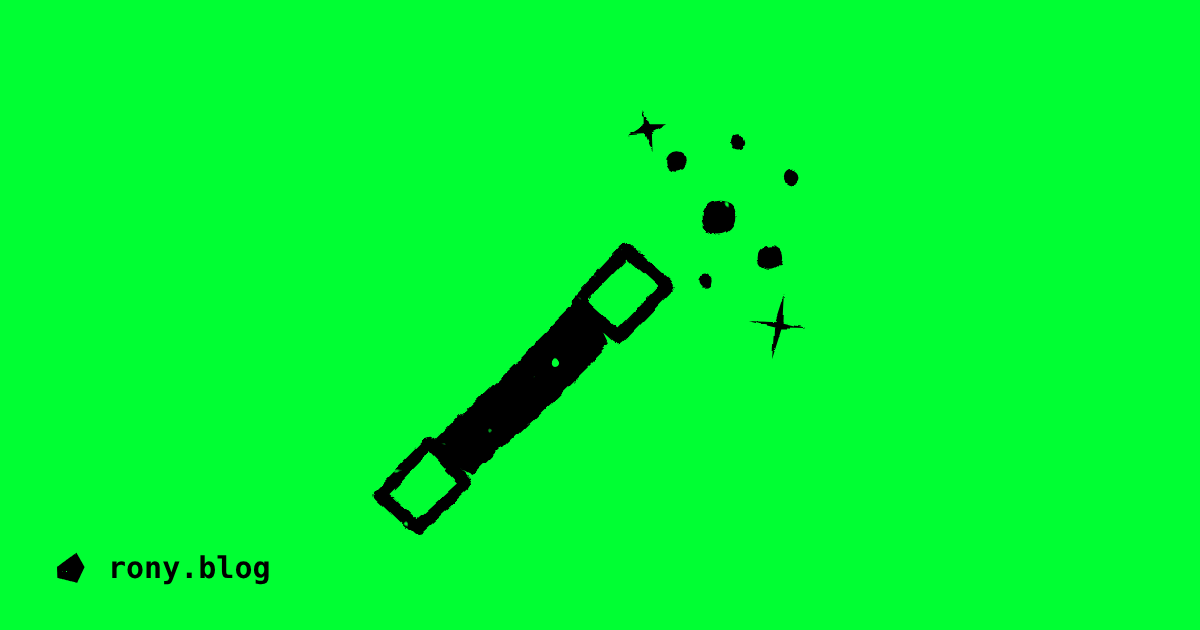
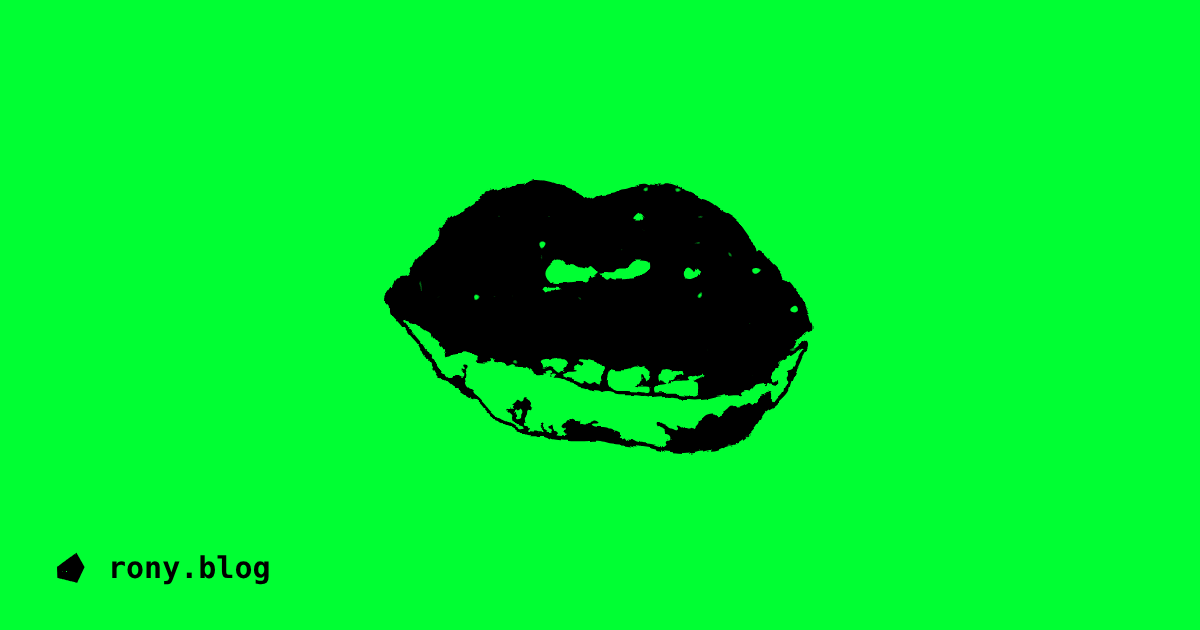
Give the talent essay the mouth with gold teeth
Traced from the painting: the black mouth and upper lip as solid ink, the
gold teeth as green shapes, the pale lower lip held by an outline, then
given the same printed edge as the other icons. Replaces the wand in the
feed, the social cuts and the share card; the wand stays in the library.

Claude-Session: https://claude.ai/code/session_01DvgCqh7jZkxuLgej98F7v5

diff --git a/index.html b/index.html
@@ -397,6 +397,7 @@ h2.year { font-size: 13px; font-weight: 700; letter-spacing: .3em; color: var(--
   <symbol id="i-oven-fish" viewBox="0 0 64 64"><g transform="translate(0 -1)"><path fill="currentColor" fill-rule="evenodd" d="M18.6 40.2 C22.6 33.4 32 32.4 38.2 36.6 L43.4 33.2 C44.2 35.6 43.8 37.6 42.6 40.2 C43.8 42.8 44.2 44.8 43.4 47.2 L38.2 43.8 C32 48 22.6 47 18.6 40.2 Z M22.4 39.4 a1.25 1.25 0 1 0 2.5 0 a1.25 1.25 0 1 0 -2.5 0 Z M27.4 35.2 C29.8 38.4 29.8 42 27.6 45.4 C28.8 42 28.8 38.4 27.4 35.2 Z M31.3 39.0 a0.7 0.7 0 1 0 1.4 0 a0.7 0.7 0 1 0 -1.4 0 Z M34.7 41.6 a0.7 0.7 0 1 0 1.4 0 a0.7 0.7 0 1 0 -1.4 0 Z M31.8 43.0 a0.65 0.65 0 1 0 1.3 0 a0.65 0.65 0 1 0 -1.3 0 Z M35.0 37.6 a0.65 0.65 0 1 0 1.3 0 a0.65 0.65 0 1 0 -1.3 0 Z M15.6 13.2 a1.9 1.9 0 1 0 3.8 0 a1.9 1.9 0 1 0 -3.8 0 Z M25.1 13.2 a1.9 1.9 0 1 0 3.8 0 a1.9 1.9 0 1 0 -3.8 0 Z M35.1 13.2 a1.9 1.9 0 1 0 3.8 0 a1.9 1.9 0 1 0 -3.8 0 Z M44.6 13.2 a1.9 1.9 0 1 0 3.8 0 a1.9 1.9 0 1 0 -3.8 0 Z"/><path fill="none" stroke="currentColor" stroke-width="2.3" stroke-linecap="round" stroke-linejoin="round" d="M12.3 8.5 H51.8 Q56.5 8.3 56.3 12.5 L55.8 54.3 Q56.1 58.6 51.6 58.2 H12.2 Q8.0 58.4 7.9 53.8 L7.9 12.8 Q8.2 8.0 12.4 8.2 Z M8.3 18.8 H55.6 M18.4 27.2 H45.6 Q50.3 27.4 50.1 31.7 V48.8 Q50.1 53.0 46.1 53.1 H18.7 Q14.2 53.1 13.9 48.6 V31.4 Q13.7 27.3 18.3 27.1 Z M17.1 22.8 H47.3 M13.6 58.8 V61.5 M50.6 58.9 V61.3"/></g></symbol>
   <symbol id="i-whittaker" viewBox="0 0 64 64"><path fill="currentColor" fill-rule="evenodd" d="M39.5 60.7 C39.6 60.4 39.6 60.1 39.6 59.7 C39.7 59.5 39.7 59.1 39.7 59.0 C39.8 58.8 39.8 58.4 39.9 58.1 C39.9 57.6 40.0 57.4 40.3 56.0 C40.3 55.7 40.4 55.4 40.4 55.3 C40.4 55.2 40.5 55.0 40.5 54.8 C40.6 54.5 40.6 54.2 40.7 54.0 C40.8 53.2 40.9 52.6 40.9 52.4 C41.0 52.3 41.1 52.1 41.1 51.9 C41.2 51.6 41.4 51.0 41.5 50.8 C41.8 50.5 41.7 51.5 41.4 52.3 C41.4 52.4 41.3 52.9 41.3 53.4 C41.2 53.6 41.2 53.9 41.1 54.0 C41.1 54.2 41.0 54.5 41.0 54.9 C40.8 56.3 40.8 56.1 40.5 57.0 C40.5 57.1 40.4 57.5 40.4 57.8 C40.3 58.0 40.3 58.4 40.2 58.6 C40.1 59.1 40.0 59.7 40.0 60.3 L40.0 60.8 L41.9 60.8 L43.8 60.8 L43.9 60.6 C43.9 60.5 43.9 60.3 44.0 60.1 C44.0 59.9 44.0 59.7 44.1 59.5 C44.1 59.4 44.2 59.1 44.2 58.9 C44.3 58.6 44.4 58.2 44.5 57.7 C44.5 57.3 44.6 56.6 44.7 56.2 C44.7 56.1 44.8 55.7 44.9 55.3 C44.9 54.9 45.0 54.5 45.1 54.2 C45.2 53.9 45.3 53.6 45.3 53.4 C45.3 53.2 45.4 52.8 45.5 52.4 C45.6 52.1 45.7 51.6 45.7 51.3 C45.8 50.6 46.0 50.0 46.3 49.7 C46.6 49.3 46.6 49.8 46.4 50.5 C46.4 50.8 46.3 51.1 46.2 51.4 C46.2 51.6 46.1 51.9 46.0 52.2 C46.0 52.4 45.8 53.0 45.7 53.5 C45.4 54.7 45.4 54.8 45.2 55.6 C45.1 55.9 45.0 56.4 44.9 56.6 C44.9 56.9 44.8 57.4 44.7 57.6 C44.5 58.5 44.5 58.8 44.4 59.2 C44.3 59.8 44.2 60.5 44.2 60.6 C44.0 60.8 43.7 60.8 49.0 60.8 L53.8 60.8 L53.9 60.6 C53.9 60.4 53.9 60.1 53.9 59.8 C53.9 59.6 53.9 59.1 53.9 58.7 C53.9 57.9 53.8 57.1 53.6 56.8 C53.3 56.3 53.2 56.2 53.4 55.7 C53.4 55.5 53.5 55.3 53.5 55.1 C53.5 54.7 53.6 54.3 53.8 53.9 C53.9 53.4 53.9 53.1 53.7 52.8 C53.5 52.6 53.5 52.5 53.7 52.2 C54.0 51.6 54.3 50.3 54.1 50.2 C54.0 50.0 53.9 50.0 53.5 50.2 C53.2 50.4 53.2 50.4 53.1 50.3 C53.1 50.2 52.9 50.3 52.9 50.4 C52.9 50.4 53.0 50.4 53.0 50.4 C53.1 50.5 53.1 50.6 52.9 50.8 C52.8 50.9 52.7 51.1 52.6 51.2 C52.4 51.6 52.4 51.6 52.1 51.5 C51.9 51.4 51.9 51.5 51.6 51.7 C51.1 52.1 50.9 51.8 51.2 51.2 C51.3 50.9 51.4 50.8 51.4 50.5 C51.5 50.1 51.7 49.7 52.2 49.5 C52.2 49.4 52.4 49.3 52.4 49.2 C52.5 49.0 52.6 48.9 52.7 48.8 C52.7 48.8 52.8 48.6 53.0 48.5 C53.2 48.1 53.3 48.1 53.6 48.1 C54.2 48.3 53.8 47.7 53.1 47.4 C53.0 47.3 52.7 47.2 52.5 47.1 C52.0 46.6 50.9 46.0 50.7 45.9 C50.6 45.8 50.2 45.7 49.8 45.5 C49.1 45.2 48.6 45.0 48.3 45.0 C47.9 45.0 47.6 44.7 47.3 44.2 C47.2 44.0 47.2 44.0 46.9 43.9 C46.8 43.9 46.7 43.9 46.6 43.8 C46.5 43.8 46.6 43.6 46.7 43.6 C47.0 43.8 47.1 43.7 47.2 43.5 C47.2 43.2 47.2 43.1 46.9 42.8 C46.7 42.6 46.7 42.6 46.7 42.2 C46.7 41.8 46.6 41.6 46.1 41.1 C46.0 41.0 45.9 40.9 45.8 40.7 C45.8 40.6 45.7 40.5 45.7 40.5 C45.5 40.3 45.5 40.0 45.7 39.6 C45.9 39.3 45.9 39.1 45.6 38.9 C45.5 38.9 45.3 38.7 45.2 38.6 C44.9 38.3 44.6 38.4 44.7 38.7 C44.8 38.9 44.7 38.9 44.6 38.9 C44.4 38.9 44.3 38.8 44.3 38.7 C44.3 38.7 44.2 38.6 44.2 38.6 C43.9 38.3 43.9 37.8 44.1 37.4 C44.3 37.0 44.3 36.9 44.0 36.6 C43.6 36.2 43.7 36.0 44.2 36.0 C44.5 35.9 44.6 35.9 44.4 35.7 C44.3 35.6 44.2 35.6 43.8 35.7 C43.4 35.8 43.0 35.6 43.4 35.4 C43.5 35.3 43.6 35.2 43.7 35.0 C43.7 34.9 43.2 34.5 42.8 34.4 C42.3 34.2 42.1 33.8 42.5 33.8 C42.8 33.7 42.9 33.7 42.9 33.5 C42.9 33.3 43.0 33.2 43.3 33.2 C43.7 33.2 43.8 33.4 43.6 33.7 C43.5 33.9 43.5 33.9 43.8 33.9 C43.9 33.9 44.1 33.9 44.2 34.0 C44.4 34.0 44.4 34.0 44.4 33.5 C44.4 33.1 44.5 33.0 44.9 32.8 C45.7 32.5 46.5 31.8 46.5 31.3 C46.5 31.0 46.1 30.5 45.4 29.8 C45.3 29.7 45.1 29.4 45.0 29.3 C44.9 29.2 44.8 28.9 44.6 28.7 C44.5 28.5 44.4 28.3 44.4 28.3 C44.4 28.3 44.2 28.1 44.0 28.0 C43.8 27.8 43.6 27.6 43.6 27.6 C43.4 27.2 44.2 26.8 44.6 27.1 C44.9 27.2 45.6 27.3 45.7 27.1 C45.8 27.0 45.6 26.8 45.3 26.7 C44.8 26.6 44.8 26.4 45.1 25.7 C45.2 25.3 45.2 25.3 45.4 25.3 C45.7 25.3 45.7 25.3 45.5 24.9 C45.4 24.7 45.4 24.6 45.4 24.5 C45.6 24.2 45.5 24.0 45.0 23.7 C44.8 23.6 44.8 23.6 44.7 23.2 C44.7 23.0 44.7 22.9 44.5 22.7 C44.3 22.6 44.3 22.6 44.4 22.4 C44.4 22.2 44.4 22.1 44.4 22.1 C44.4 22.1 44.3 22.1 44.1 22.1 C43.4 22.2 43.1 21.5 43.7 20.8 C43.9 20.6 43.9 20.4 43.6 20.1 L43.4 19.9 L43.4 19.4 C43.4 18.8 43.4 18.8 43.3 18.6 C43.1 18.3 43.1 18.3 43.1 18.0 C43.1 17.8 43.1 17.7 43.0 17.5 C42.8 17.2 42.8 17.2 42.9 17.0 C42.9 16.9 42.9 16.8 42.8 16.8 C42.6 16.6 42.5 16.6 42.4 16.1 C42.3 15.7 42.3 15.7 42.4 15.4 C42.5 14.9 42.5 14.8 42.0 14.7 C41.9 14.6 41.8 14.5 41.6 14.3 C41.5 14.1 41.3 13.9 41.2 13.7 C41.0 13.5 41.0 13.5 41.1 13.0 C41.2 12.8 41.3 12.6 41.3 12.6 C41.5 12.4 41.4 12.3 41.2 12.2 C41.0 12.2 40.9 12.1 40.8 11.9 C40.7 11.7 40.4 11.4 39.9 11.2 C39.1 10.8 39.0 10.9 39.0 11.7 C39.0 12.1 38.9 12.4 38.9 12.6 C38.8 12.8 38.8 12.9 38.8 13.0 C38.8 13.1 38.8 13.2 38.6 13.3 C38.4 13.4 38.3 13.6 38.4 13.8 C38.6 14.1 38.4 14.3 38.1 14.3 C37.9 14.3 37.9 14.2 38.0 13.9 C38.1 13.6 38.1 13.5 38.0 13.4 C37.7 13.2 37.4 13.5 37.2 14.1 C37.1 14.3 37.0 14.5 36.9 14.6 C36.8 14.9 36.9 15.2 37.2 15.1 C37.4 15.0 37.5 15.1 37.5 15.2 C37.4 15.3 37.4 15.3 37.2 15.3 C37.0 15.2 37.0 15.2 36.7 15.5 C36.3 15.9 36.2 15.9 36.3 15.4 C36.4 15.2 36.4 14.9 36.4 14.7 C36.4 14.5 36.5 14.2 36.5 14.1 C36.5 14.0 36.5 13.9 36.5 13.6 C36.4 13.0 36.4 12.5 36.5 12.6 C36.8 12.6 36.9 12.6 36.9 12.4 C37.1 12.0 37.1 12.0 37.2 12.2 C37.3 12.4 37.3 12.7 37.1 12.7 C36.9 12.8 36.9 13.0 37.1 13.2 C37.2 13.3 37.2 13.3 37.2 13.2 C37.3 13.0 37.4 12.9 37.6 13.0 C37.8 13.0 37.9 12.9 38.0 12.5 C38.1 12.3 38.1 12.2 38.2 12.0 C38.5 11.8 38.6 11.0 38.4 10.9 C38.3 10.9 38.0 11.1 38.0 11.2 C38.0 11.3 38.0 11.3 38.0 11.4 C38.0 11.5 37.8 11.4 37.6 11.3 C37.5 11.0 37.3 11.0 37.3 11.3 C37.3 11.4 37.3 11.5 37.2 11.5 C37.2 11.6 37.1 11.7 37.1 11.8 C37.1 11.9 37.1 11.8 37.0 11.7 C37.0 11.4 36.6 10.8 36.2 10.5 C35.4 10.0 35.0 9.8 34.4 9.9 C34.3 10.0 34.0 10.0 33.9 10.0 C33.8 10.0 33.6 10.1 33.4 10.1 C33.3 10.1 33.1 10.2 33.0 10.2 C32.9 10.2 32.7 10.2 32.5 10.4 C31.9 10.7 31.8 10.6 32.0 10.1 C32.0 9.9 31.6 9.5 31.4 9.6 C31.3 9.6 31.2 9.6 31.1 9.6 C30.8 9.6 30.8 9.7 30.9 10.1 C31.2 10.8 30.7 11.4 30.1 10.9 C29.8 10.7 29.4 10.6 29.1 10.8 C29.0 10.9 28.8 11.0 28.6 11.1 C28.0 11.5 27.6 12.6 27.9 13.3 C28.0 13.9 28.5 13.8 29.4 13.3 C29.6 13.2 29.6 13.2 29.9 13.2 C30.2 13.2 30.6 13.1 30.9 12.9 C31.0 12.9 31.1 12.8 31.2 12.8 C31.3 12.8 31.6 13.2 31.6 13.4 C31.6 13.5 31.6 13.6 31.8 13.7 C32.1 13.9 32.1 13.9 32.4 14.0 C32.5 14.1 32.6 14.2 32.8 14.4 C33.5 15.3 34.1 14.7 34.1 13.1 C34.1 12.2 34.0 11.9 33.5 11.6 C33.0 11.4 32.9 11.2 33.1 11.0 C33.3 10.8 33.4 10.8 33.6 11.1 C33.7 11.2 33.7 11.3 33.9 11.3 C34.4 11.5 35.1 12.4 35.2 13.2 C35.3 13.6 35.3 13.6 35.1 14.3 C34.9 15.4 34.8 15.6 34.6 15.9 C34.2 16.3 34.2 16.8 34.5 17.3 C34.6 17.5 34.7 17.7 34.7 17.8 C34.7 18.1 34.8 18.3 35.3 18.8 C36.0 19.3 36.1 19.5 36.1 19.8 C36.2 20.2 36.3 20.5 36.5 20.9 C36.6 21.1 36.7 21.4 36.8 21.5 C36.9 21.8 37.0 21.9 37.2 22.2 C37.9 22.9 38.3 25.3 37.9 26.5 C37.6 27.6 37.6 27.9 37.9 28.4 C38.2 28.7 38.2 28.7 38.4 28.7 C38.7 28.8 38.7 28.8 38.8 29.4 C38.8 29.8 38.8 29.9 38.7 30.0 C38.4 30.5 38.0 30.8 37.6 30.7 C37.2 30.6 37.1 30.6 37.0 31.3 C36.8 32.0 36.7 32.5 36.4 33.1 C36.3 33.4 36.1 33.7 36.1 33.7 C36.1 33.8 36.1 33.9 36.1 34.0 C35.9 34.3 36.0 34.4 36.1 34.4 C36.5 34.4 36.7 35.1 36.7 36.6 C36.8 37.7 36.5 39.0 36.1 39.7 C35.9 40.0 34.8 41.0 34.5 41.2 C34.3 41.3 34.0 41.6 33.6 41.9 C31.9 43.2 31.8 43.3 31.7 43.7 C31.5 44.1 31.3 44.5 31.0 44.9 C30.2 45.9 30.0 46.9 30.5 47.9 C30.7 48.2 30.6 48.4 30.3 48.4 C30.2 48.5 30.1 48.5 30.1 48.7 C29.9 49.0 29.6 49.0 29.4 48.7 C29.3 48.5 29.1 48.4 28.8 48.5 C28.4 48.7 28.3 48.7 28.0 48.6 C27.9 48.5 27.8 48.5 27.7 48.7 C27.5 48.8 27.4 48.8 27.2 48.8 C26.8 48.8 26.5 49.2 26.5 49.8 C26.6 50.1 26.5 50.3 26.3 50.4 C26.1 50.6 26.0 50.4 26.1 50.0 C26.1 49.8 26.1 49.6 26.1 49.4 C26.0 48.3 26.1 48.2 26.9 48.2 C27.4 48.2 27.7 48.1 27.9 47.9 C27.9 47.8 28.1 47.8 28.2 47.8 C28.8 47.7 28.7 47.5 28.0 47.5 C27.4 47.5 26.9 47.2 27.3 47.0 C27.6 46.8 27.7 46.7 27.7 45.6 C27.8 44.7 27.8 43.7 27.7 43.3 C27.5 42.4 27.7 41.9 28.2 42.4 C28.5 42.8 28.9 42.9 29.1 42.7 C29.3 42.6 29.2 42.5 28.8 42.1 C28.2 41.5 28.1 41.3 28.2 40.9 C28.2 40.8 28.2 40.8 28.3 40.8 C28.7 40.8 28.7 39.8 28.4 39.1 C27.8 38.1 27.8 37.8 28.5 36.6 C29.0 35.9 29.1 35.9 29.3 36.1 C29.4 36.3 29.5 36.3 29.8 36.1 C30.2 35.8 30.2 35.8 29.9 35.7 C29.8 35.6 29.6 35.6 29.5 35.5 C29.3 35.4 28.9 35.3 28.5 35.1 C28.2 35.1 28.1 35.0 28.0 34.9 C27.7 34.7 27.6 34.6 27.3 34.8 C27.1 34.8 27.0 34.8 26.8 34.7 C26.6 34.7 26.4 34.6 26.3 34.6 C26.1 34.6 25.7 34.3 25.7 34.2 C25.7 34.1 25.3 33.9 25.1 33.9 C24.7 33.8 24.0 33.3 24.0 33.1 C24.0 32.9 23.9 32.8 23.8 32.8 C23.4 32.8 22.6 31.2 22.7 30.5 C22.7 30.4 22.7 30.2 22.7 30.1 C22.5 29.7 22.6 29.1 22.8 28.7 C22.9 28.6 22.9 28.4 22.9 28.4 C22.9 28.3 23.0 28.2 23.0 28.0 C23.2 27.6 23.2 27.5 22.9 26.9 C22.7 26.6 22.6 26.4 22.6 26.3 C22.6 26.3 22.6 26.2 22.5 26.0 C22.4 25.9 22.4 25.7 22.4 25.5 C22.3 25.3 22.3 25.1 22.3 24.9 C22.2 24.5 22.3 23.7 22.5 23.3 C22.6 23.2 22.7 23.0 22.7 22.9 C22.7 22.8 22.8 22.6 22.9 22.5 C23.0 22.4 23.1 22.1 23.1 21.9 C23.3 21.5 23.5 21.1 23.7 21.1 C23.8 21.1 23.8 21.2 23.6 21.4 C23.5 21.7 23.4 22.6 23.6 22.7 C23.7 22.9 23.7 22.9 24.2 22.7 C24.5 22.6 24.7 22.6 24.9 22.6 C25.2 22.6 25.3 22.6 25.4 22.5 C25.5 22.4 25.5 22.4 25.7 22.4 C25.9 22.4 26.0 22.4 26.1 22.4 C26.2 22.3 26.4 22.2 26.6 22.2 C26.8 22.1 26.9 22.1 26.9 21.9 C27.1 21.6 27.4 21.7 27.4 22.0 C27.4 22.9 28.7 22.4 28.9 21.4 C29.0 20.8 28.7 20.3 28.5 20.7 C28.4 20.9 28.2 21.2 28.0 21.4 C27.9 21.5 27.5 21.4 27.1 21.2 C26.8 21.0 25.7 20.7 25.2 20.7 C25.1 20.7 24.8 20.7 24.7 20.7 C24.6 20.6 24.5 20.7 24.2 20.8 C23.9 20.9 23.8 20.9 23.9 20.6 C24.1 20.3 24.0 20.1 23.6 20.2 C23.3 20.2 22.6 19.9 22.6 19.6 C22.6 19.4 22.9 19.1 23.1 19.1 C23.1 19.1 23.3 19.0 23.5 18.9 C23.7 18.7 23.8 18.7 23.9 18.7 C24.0 18.7 24.2 18.7 24.3 18.6 C24.9 18.4 24.7 19.0 24.0 19.5 C23.5 19.9 23.8 20.1 24.6 19.8 C24.7 19.8 25.0 19.8 25.2 19.7 C25.4 19.7 25.7 19.7 25.7 19.7 C26.0 19.6 26.1 19.7 26.3 19.9 C26.7 20.2 26.9 20.2 27.5 20.0 C28.4 19.7 28.1 19.2 26.9 19.0 C26.4 18.9 26.4 18.8 26.7 18.5 C27.3 17.9 27.9 16.6 27.8 16.0 C27.8 15.8 27.4 14.8 27.3 14.6 C27.2 14.5 27.0 13.8 27.0 13.5 C27.0 13.4 27.0 13.2 27.0 13.0 C26.9 12.8 26.9 12.4 27.0 12.1 C27.1 12.0 27.1 11.7 27.1 11.5 C27.1 11.1 27.2 11.1 27.3 10.8 C27.5 10.5 27.6 10.4 27.6 10.1 C27.6 9.4 27.8 9.2 28.5 9.2 C28.6 9.2 29.1 9.1 29.1 9.0 C29.2 9.0 29.1 8.8 28.9 8.6 C28.9 8.6 28.8 8.6 28.7 8.6 C28.5 8.6 28.4 8.6 28.3 8.6 C28.1 8.5 27.9 8.5 27.7 8.6 C27.4 8.8 26.9 8.8 26.5 8.6 C26.3 8.5 25.8 8.6 25.5 8.8 C25.2 8.9 24.1 9.0 23.6 8.9 C23.4 8.9 23.3 8.9 23.2 9.0 C23.1 9.0 22.9 9.2 22.7 9.3 C22.3 9.4 22.3 9.5 22.1 9.8 C21.7 10.3 21.6 10.4 20.9 10.1 C20.4 9.9 20.2 10.0 20.5 10.5 C20.6 10.9 20.5 11.0 20.1 11.0 C20.0 11.0 19.9 11.0 19.8 11.2 C19.7 11.4 19.6 11.5 19.3 11.7 C18.9 11.9 18.2 12.5 17.8 12.9 C17.5 13.2 17.5 13.3 17.3 13.9 C17.3 14.2 17.3 14.3 17.4 14.0 C17.7 13.0 19.0 11.9 20.0 11.8 C20.4 11.8 20.4 12.0 19.9 12.3 C19.4 12.6 19.3 12.8 19.1 13.2 C19.1 13.3 18.9 13.5 18.9 13.7 C18.8 13.8 18.7 14.0 18.6 14.1 C18.6 14.2 18.5 14.4 18.3 14.5 L18.0 14.8 L18.1 15.5 C18.1 15.9 18.1 16.4 18.1 16.5 C18.1 16.7 18.1 16.9 18.1 17.1 C18.0 17.3 18.1 17.4 18.1 17.6 C18.3 18.0 18.1 18.3 17.8 18.5 C17.4 18.7 16.9 19.2 17.3 19.0 C17.9 18.8 18.7 19.2 18.7 19.8 C18.7 19.9 18.6 20.0 18.0 20.1 C17.8 20.2 17.8 20.2 18.1 20.5 C18.4 20.7 18.5 20.7 18.7 20.7 C19.1 20.6 19.1 20.8 18.8 21.2 C18.5 21.6 18.1 21.6 17.8 21.4 C17.7 21.3 17.6 21.2 17.5 21.2 C17.4 21.2 17.3 21.1 17.2 21.1 C17.1 21.0 17.0 21.0 16.9 21.1 C16.9 21.3 16.6 21.2 16.4 21.0 C15.8 20.2 15.9 19.1 16.6 19.6 C16.8 19.7 16.9 19.7 16.9 19.5 C16.9 19.4 16.8 19.3 16.8 19.3 C16.8 19.3 16.7 19.2 16.6 19.1 C16.2 18.6 15.5 19.4 15.5 20.3 C15.5 20.7 15.5 20.9 15.4 21.0 C15.4 21.1 15.4 21.3 15.4 21.4 C15.4 21.5 15.3 21.6 15.2 21.7 C14.9 21.9 15.0 22.1 15.5 22.5 C16.1 23.0 16.0 23.3 15.0 23.5 C14.1 23.6 14.1 23.6 14.0 23.9 C14.0 24.1 13.9 24.2 13.7 24.5 C13.1 25.2 12.9 26.3 13.3 27.2 C13.7 28.4 13.9 28.4 13.9 27.4 C13.8 26.6 13.8 26.6 14.0 26.5 C14.4 26.2 14.8 27.7 14.4 28.2 C14.3 28.3 14.3 28.3 14.3 28.5 C14.5 29.2 14.4 29.6 14.1 29.8 C13.6 30.1 13.3 30.6 13.5 30.9 C13.6 31.0 13.6 31.0 13.7 30.8 C13.9 30.3 14.7 30.2 14.8 30.6 C14.9 30.8 14.9 30.8 15.1 30.9 C15.2 30.9 15.4 31.0 15.5 31.1 C15.7 31.2 15.9 31.3 16.0 31.3 C16.4 31.3 16.5 31.4 16.5 31.9 C16.5 32.5 16.2 32.8 15.8 32.9 C15.5 32.9 14.9 33.3 14.9 33.4 C14.8 33.6 14.9 33.7 15.1 33.8 C15.7 34.0 15.8 34.0 15.9 33.8 C16.2 33.5 16.7 33.5 17.0 33.8 C17.3 34.0 17.2 34.2 16.9 34.4 C16.7 34.6 16.2 35.7 16.2 36.1 C16.2 36.6 16.4 36.9 16.8 37.0 C16.9 37.0 17.1 37.0 17.1 37.1 C17.4 37.3 17.7 37.3 18.1 37.0 C18.2 37.0 18.6 36.8 18.9 36.7 C19.2 36.6 19.5 36.5 19.7 36.4 C20.0 36.2 20.1 36.2 20.2 36.3 C20.3 36.5 20.2 36.8 19.8 37.0 C19.6 37.1 19.5 37.1 19.5 37.4 C19.5 37.7 19.3 37.9 19.0 38.1 C18.6 38.3 18.5 38.4 18.5 38.5 C18.5 38.6 18.5 38.7 18.4 38.8 C18.4 38.9 18.4 38.9 18.5 39.0 C18.9 39.3 18.5 39.7 17.8 39.8 C17.1 39.9 17.0 40.0 17.1 40.8 C17.2 41.1 17.6 41.2 18.0 41.0 C18.6 40.8 19.4 40.8 19.5 41.1 C19.6 41.2 19.5 41.3 19.2 41.3 C18.6 41.4 18.3 41.7 18.5 42.0 C18.8 42.3 18.8 42.5 18.5 42.9 C18.4 43.2 18.3 43.3 18.3 43.4 C18.4 43.5 18.5 44.0 18.6 44.3 C18.8 44.7 18.4 45.1 17.8 44.9 C17.5 44.9 17.4 44.9 17.6 45.1 C17.6 45.1 17.7 45.2 17.7 45.3 C17.8 45.4 17.8 45.6 17.3 46.0 C16.5 46.8 16.3 47.3 15.9 48.8 C15.8 49.2 15.7 49.8 15.6 50.1 C15.5 50.3 15.4 50.9 15.3 51.4 C15.2 51.9 15.2 52.4 15.1 52.5 C15.0 53.1 15.0 53.4 14.9 54.6 C14.9 55.6 14.9 55.9 14.8 56.3 C14.8 56.5 14.7 57.1 14.6 57.6 C14.6 58.0 14.5 58.7 14.4 59.1 C14.3 59.7 14.2 60.3 14.2 60.6 L14.2 60.8 L26.8 60.8 C39.5 60.8 39.5 60.8 39.5 60.7 Z M25.6 57.4 C25.5 57.3 25.6 57.2 25.9 56.9 C26.2 56.6 26.0 56.5 25.5 56.6 C25.1 56.8 24.9 56.6 24.9 56.2 C25.0 55.9 25.1 55.9 25.3 56.0 C26.0 56.3 26.6 56.1 27.0 55.5 C27.3 55.1 27.7 54.8 27.7 55.1 C27.8 55.2 27.4 55.7 27.2 55.9 C27.0 56.0 26.9 56.1 26.9 56.3 C26.6 57.1 25.9 57.6 25.6 57.4 Z M25.8 53.9 C25.7 53.9 25.5 53.5 25.5 53.4 C25.5 53.3 25.5 53.3 25.9 53.3 C26.2 53.3 26.4 53.2 26.4 53.0 C26.5 52.6 27.2 52.2 27.8 52.2 C28.0 52.2 28.2 52.2 28.3 52.2 C28.5 52.1 28.7 51.8 28.7 51.5 C28.7 51.3 28.9 51.1 29.0 51.3 C29.1 51.4 29.0 51.6 28.7 51.9 C28.5 52.1 28.4 52.3 28.3 52.4 C28.2 52.6 28.0 52.7 27.6 52.9 C27.3 53.1 27.3 53.1 27.1 53.3 C26.8 53.8 26.1 54.1 25.8 53.9 Z M36.9 49.1 C36.9 49.1 36.8 49.1 36.7 49.1 C36.6 49.1 36.5 49.0 36.3 48.9 C36.2 48.8 36.1 48.7 36.1 48.7 C36.0 48.7 35.7 48.6 35.7 48.4 C35.6 48.3 35.5 48.1 35.3 48.0 C35.1 47.8 35.1 47.7 35.1 47.6 C35.1 47.4 35.5 47.5 35.6 47.9 C35.6 48.2 36.1 48.2 36.3 47.9 C36.5 47.6 36.8 47.6 36.8 47.9 C36.8 47.9 36.8 48.0 36.7 48.1 C36.6 48.2 36.9 48.4 37.3 48.4 C37.8 48.4 37.8 49.1 37.2 49.1 C37.1 49.1 37.0 49.1 36.9 49.1 Z M49.1 48.0 C48.7 47.8 48.7 47.8 48.5 47.9 C48.4 47.9 48.2 47.9 47.8 47.9 C47.4 47.9 47.2 47.9 46.9 48.0 C46.4 48.1 46.2 48.1 45.9 47.7 C45.8 47.4 45.8 47.4 46.1 47.1 C46.3 46.7 46.7 46.5 47.0 46.5 C47.1 46.5 47.3 46.5 47.5 46.5 C47.9 46.4 48.1 46.5 48.6 46.8 C48.8 46.9 49.0 47.0 49.3 47.0 C50.1 47.2 50.3 47.6 49.8 48.0 C49.5 48.2 49.4 48.2 49.1 48.0 Z M37.5 47.9 C37.3 47.7 37.8 46.9 38.2 46.8 C38.3 46.8 38.3 46.8 38.3 46.4 C38.2 46.1 38.2 46.1 38.4 45.9 C38.6 45.8 38.6 45.7 38.5 45.4 C38.3 45.1 38.3 45.0 38.5 44.6 C38.6 44.3 38.7 44.3 38.9 44.4 C39.2 44.5 39.6 44.4 39.5 44.1 C39.5 43.9 39.4 43.8 39.1 43.8 C38.7 43.7 38.7 43.3 39.1 42.7 C39.4 42.3 39.5 42.3 39.7 42.6 C39.9 42.6 40.0 42.7 40.1 42.7 C40.2 42.8 40.3 42.8 40.3 42.8 C40.3 42.9 40.0 43.5 39.9 43.6 C39.9 43.7 39.8 43.8 39.8 44.0 C39.8 44.2 39.5 44.8 39.4 45.0 C39.1 45.3 38.8 45.8 38.8 46.1 C38.8 46.3 38.6 46.6 38.5 46.7 C38.4 46.8 38.4 46.8 38.4 47.0 C38.3 47.6 37.8 48.2 37.5 47.9 Z M28.5 31.5 C28.9 31.5 28.9 31.4 28.7 31.2 C28.3 30.8 28.3 30.7 28.6 30.5 C29.1 30.3 29.2 30.2 29.0 30.0 C28.8 29.8 29.0 29.5 29.5 29.5 C30.0 29.5 30.0 29.4 29.7 29.1 C29.2 28.6 28.7 28.6 27.7 29.1 C27.4 29.3 27.2 29.3 26.9 29.4 C26.6 29.4 26.5 29.4 26.3 29.7 C26.1 29.9 26.1 30.0 26.3 30.3 C26.6 30.8 26.6 30.8 27.0 31.0 C27.3 31.1 27.4 31.2 27.5 31.3 C27.7 31.5 28.0 31.6 28.1 31.6 C28.2 31.6 28.3 31.6 28.5 31.5 Z M28.8 26.7 C28.9 26.7 29.1 26.6 29.2 26.6 C29.7 26.4 29.6 25.2 29.1 25.2 C28.9 25.2 28.2 25.7 28.1 25.9 C27.8 26.5 28.3 27.0 28.8 26.7 Z M34.3 22.4 C34.3 22.3 34.4 22.3 34.4 22.1 C34.4 21.9 34.5 21.9 34.7 22.0 C34.8 22.1 35.0 22.2 35.1 22.2 C35.2 22.2 35.3 22.2 35.4 22.3 C35.6 22.5 35.7 22.4 35.5 22.0 C35.2 21.5 34.6 21.2 33.9 21.3 C33.5 21.4 33.5 21.4 33.6 21.8 C33.7 22.3 33.9 22.5 34.3 22.4 Z M25.8 17.5 C25.7 17.4 25.7 17.3 25.9 16.8 C26.0 16.6 26.0 16.3 26.1 16.2 C26.1 16.0 26.2 15.8 26.3 15.6 C26.4 15.4 26.5 15.2 26.5 15.1 C26.8 14.5 27.1 14.8 27.1 15.5 C27.1 16.6 26.2 17.9 25.8 17.5 Z M24.3 13.1 C24.3 13.0 24.2 12.9 24.1 12.8 L24.1 12.7 L23.9 12.9 C23.7 13.1 23.6 13.0 23.5 12.8 C23.4 12.7 23.4 12.4 23.3 12.2 C23.1 11.6 23.2 11.3 24.0 10.7 C24.2 10.6 24.5 10.3 24.7 10.2 C24.8 10.0 25.1 9.9 25.2 9.8 C25.6 9.7 25.9 9.5 26.0 9.3 C26.2 8.9 26.9 9.1 26.8 9.5 C26.8 9.6 26.8 9.6 26.1 10.0 C25.3 10.4 24.6 11.2 24.6 11.9 C24.6 12.1 24.5 12.3 24.5 12.4 C24.4 12.6 24.4 12.7 24.5 12.8 C24.5 13.2 24.5 13.3 24.3 13.1 Z"/></symbol>
   <symbol id="i-keane" viewBox="0 0 64 64"><g transform="translate(0 -1.5)"><path fill="currentColor" fill-rule="evenodd" d="M12.0 49.8 C9.1 33.7 14.3 8.6 31.2 8.5 C49.4 9.2 55.2 32.8 52.1 49.6 L47.5 46.3 C48.7 40.5 48.8 31.2 46.4 25.8 L43.4 29.5 L40.0 25.2 L36.9 29.8 L33.6 24.9 L30.0 29.8 L26.3 25.5 L23.0 30.2 L19.7 25.8 L16.5 28.7 C15.2 32.9 15.5 40.8 16.8 46.3 Z M13.6 20.0 Q10.4 28.9 13.0 38.0 Q11.9 29.0 13.6 20.0 Z M17.4 13.6 Q13.8 19.3 14.6 26.0 Q15.2 19.6 17.4 13.6 Z M50.4 21.0 Q47.8 30.1 51.0 39.0 Q49.3 30.0 50.4 21.0 Z M46.6 13.0 Q46.2 19.6 50.0 25.0 Q47.5 19.2 46.6 13.0 Z M24.0 11.6 Q29.2 13.0 34.0 10.6 Q29.1 11.6 24.0 11.6 Z M19.4 15.4 Q23.6 15.9 27.0 13.4 Q23.3 14.7 19.4 15.4 Z M38.0 12.0 Q41.1 14.4 45.0 14.0 Q41.4 13.3 38.0 12.0 Z M29.6 37.8 C29.8 38.9 29.7 40.1 29.4 41.1 C29.2 42.1 28.8 43.4 28.1 44.0 C27.5 44.7 26.4 44.9 25.6 45.1 C24.7 45.3 23.8 45.3 22.9 45.0 C22.1 44.7 21.1 44.2 20.5 43.4 C19.9 42.7 19.6 41.5 19.3 40.5 C19.0 39.5 18.7 38.4 18.7 37.3 C18.7 36.3 19.1 35.1 19.5 34.2 C20.0 33.3 20.7 32.3 21.5 31.9 C22.2 31.6 23.3 31.8 24.1 31.9 C25.0 32.0 25.9 32.1 26.6 32.6 C27.4 33.1 28.0 34.0 28.4 34.9 C28.9 35.8 29.5 36.8 29.6 37.8 Z M45.5 38.0 C45.4 39.0 45.2 40.2 44.7 41.1 C44.3 42.0 43.6 42.9 42.9 43.3 C42.2 43.8 41.2 43.8 40.4 43.8 C39.7 43.7 38.9 43.5 38.2 43.1 C37.5 42.7 36.8 42.2 36.3 41.5 C35.8 40.8 35.6 39.7 35.5 38.7 C35.3 37.7 35.2 36.5 35.4 35.5 C35.6 34.6 36.3 33.6 36.9 32.8 C37.5 32.1 38.3 31.6 39.1 31.3 C39.9 31.0 40.8 31.0 41.6 31.2 C42.4 31.4 43.3 31.8 43.8 32.4 C44.4 33.1 44.7 34.2 44.9 35.1 C45.2 36.1 45.5 37.0 45.5 38.0 Z M23.5 35.9 C23.4 36.3 23.1 36.9 22.8 37.1 C22.4 37.4 21.9 37.4 21.5 37.3 C21.2 37.2 20.7 36.8 20.6 36.4 C20.5 36.0 20.7 35.3 20.9 34.9 C21.1 34.5 21.4 34.1 21.7 33.9 C22.0 33.7 22.5 33.7 22.8 33.8 C23.1 33.9 23.4 34.2 23.5 34.6 C23.7 34.9 23.6 35.5 23.5 35.9 Z M39.6 34.5 C39.7 34.9 39.9 35.5 39.8 35.8 C39.6 36.2 39.2 36.5 38.9 36.6 C38.5 36.7 38.0 36.7 37.7 36.5 C37.4 36.2 37.2 35.6 37.1 35.1 C37.1 34.7 37.1 34.3 37.2 33.9 C37.3 33.5 37.6 33.0 37.9 32.9 C38.2 32.8 38.8 33.0 39.1 33.2 C39.3 33.5 39.5 34.0 39.6 34.5 Z M32.9 45.6 C32.9 45.8 32.6 46.0 32.4 46.1 C32.1 46.3 31.8 46.3 31.6 46.2 C31.4 46.1 31.3 45.8 31.3 45.6 C31.3 45.4 31.4 45.0 31.6 44.9 C31.7 44.8 32.1 44.9 32.4 45.1 C32.6 45.2 32.9 45.4 32.9 45.6 Z M19.8 46.2 C22.4 49 23.2 51.4 20.6 53.4 C17.6 51.8 17.8 49 19.8 46.2 Z M13.5 63.8 C14.8 59.9 22.0 58.5 27.1 58.4 L32.3 61.9 L37.1 58.3 C42.6 58.0 49.0 59.7 50.5 63.4 Z"/><path fill="none" stroke="currentColor" stroke-width="1.5" stroke-linecap="round" stroke-linejoin="round" d="M14.6 37.0 C14.8 38.5 14.5 43.2 15.6 46.0 C16.7 48.8 18.7 52.0 21.4 53.8 C24.1 55.6 28.5 56.7 32.0 56.6 C35.5 56.5 39.6 55.2 42.4 53.4 C45.2 51.6 47.4 48.5 48.6 45.8 C49.8 43.1 49.3 38.8 49.4 37.4 M15.4 36.4 C15.6 38.2 15.4 43.9 16.6 47.0 C17.8 50.1 20.3 53.1 22.8 54.8 C25.3 56.5 28.3 57.2 31.4 57.2 C34.5 57.2 38.5 56.6 41.4 54.8 C44.3 53.0 47.5 49.2 49.0 46.4 C50.5 43.6 49.9 39.4 50.1 38.0 M29.2 51.4 C29.5 51.7 30.3 52.8 31.0 53.1 C31.7 53.4 32.9 53.7 33.6 53.4 C34.3 53.1 34.8 51.6 35.0 51.2 M17 43.4 L19.4 41 M18.6 46.6 L21.2 44.2 M43.4 43 L46 45.2 M42 46.4 L44.8 48.4"/><path fill="none" stroke="currentColor" stroke-width="2.9" stroke-linecap="round" stroke-linejoin="round" d="M17.2 36.4 C17.4 35.5 17.6 32.4 18.6 31.2 C19.6 30.0 21.7 29.5 23.4 29.4 C25.1 29.3 27.4 29.4 28.6 30.4 C29.8 31.4 30.3 34.4 30.6 35.2 M33.8 35.2 C34.2 34.4 34.9 31.4 36.2 30.4 C37.5 29.4 39.7 29.0 41.4 29.2 C43.1 29.4 45.4 30.1 46.4 31.4 C47.4 32.7 47.4 35.9 47.6 36.8 M17.2 33.6 L14.2 31.6 M47.4 33.6 L50.4 31.2"/></g></symbol>
+  <symbol id="i-mouth" viewBox="0 0 64 64"><path fill="currentColor" fill-rule="evenodd" d="M45.8 50.5 C46.3 50.4 46.9 50.3 47.2 50.2 C48.0 50.2 48.5 50.0 48.8 49.8 C48.9 49.7 49.3 49.6 49.6 49.5 C51.3 49.0 51.1 49.1 51.9 48.5 C52.9 47.7 53.7 46.8 54.1 45.8 C54.3 45.3 54.8 44.7 55.5 44.4 C56.2 44.0 57.7 42.5 57.9 42.0 C58.1 41.0 58.6 39.7 59.0 39.0 C59.2 38.6 59.5 38.0 59.6 37.7 C59.7 37.4 59.9 37.1 60.0 36.9 C60.5 36.4 60.6 35.7 60.3 35.4 C60.2 35.3 59.7 35.7 59.2 36.0 C58.4 36.8 58.0 36.7 58.8 35.8 C59.1 35.5 59.5 35.1 59.6 34.9 C59.7 34.8 59.8 34.6 59.9 34.6 C60.0 34.5 60.1 34.4 60.2 34.4 C60.3 34.3 60.4 34.2 60.6 34.2 C61.1 34.2 61.2 33.6 60.9 33.0 C60.8 32.8 60.7 32.5 60.7 32.4 C60.7 32.2 60.4 31.5 60.2 31.0 C60.1 30.8 60.0 30.5 59.9 30.4 C59.9 30.2 59.7 30.0 59.6 30.0 C59.5 29.9 59.3 29.8 59.3 29.7 C59.1 29.4 58.9 29.1 58.6 28.8 C58.5 28.6 58.3 28.4 58.3 28.3 C58.2 28.1 57.5 27.4 57.3 27.4 C57.1 27.4 56.9 27.2 56.9 27.0 C56.9 26.8 56.7 26.5 56.0 25.7 C55.6 25.4 55.1 24.7 54.7 24.3 C54.1 23.7 54.0 23.6 53.8 23.6 C53.5 23.6 53.4 23.4 53.4 23.2 C53.4 23.0 53.3 22.9 53.0 22.7 C52.8 22.5 52.7 22.3 52.7 22.3 C52.7 22.2 52.5 22.0 52.4 21.9 C52.2 21.7 51.9 21.2 51.6 20.8 C51.0 19.7 49.9 18.8 48.6 18.2 C48.3 18.1 48.0 17.9 47.7 17.6 C47.2 17.2 46.1 16.5 45.8 16.5 C45.8 16.5 45.2 16.2 44.7 16.0 C44.1 15.7 43.6 15.5 43.5 15.5 C43.5 15.5 43.2 15.3 42.9 15.1 C42.0 14.5 40.8 14.2 40.5 14.4 C40.4 14.5 40.2 14.5 39.7 14.5 C39.3 14.4 38.9 14.4 38.7 14.4 C38.6 14.4 38.4 14.3 38.3 14.3 C38.1 14.1 37.5 14.1 37.1 14.2 C37.0 14.3 36.7 14.4 36.6 14.4 C36.4 14.5 36.1 14.6 35.8 14.7 C35.6 14.8 35.1 14.9 34.8 14.9 C34.6 15.0 34.3 15.1 34.2 15.1 C34.0 15.3 33.4 15.4 32.4 15.5 C31.6 15.6 31.4 15.7 31.0 16.0 C30.7 16.2 30.7 16.2 30.5 16.0 C30.3 15.9 30.1 15.8 30.0 15.7 C29.8 15.7 29.5 15.5 29.2 15.3 C28.9 15.1 28.3 14.9 27.9 14.8 C27.5 14.7 27.1 14.5 27.0 14.4 C25.7 13.5 23.5 13.1 22.7 13.5 C22.4 13.7 21.9 13.8 21.3 13.9 C21.2 13.9 20.9 14.0 20.9 14.0 C20.8 14.1 20.7 14.2 20.6 14.2 C20.5 14.2 20.3 14.3 20.3 14.3 C20.2 14.4 20.0 14.4 19.4 14.4 C18.4 14.4 17.2 14.9 16.4 15.5 C16.2 15.7 16.0 15.8 16.0 15.9 C16.0 16.0 15.9 16.1 15.8 16.2 C15.7 16.3 15.3 16.5 15.1 16.8 C14.8 17.0 14.5 17.2 14.5 17.2 C14.4 17.2 14.2 17.4 14.0 17.6 C13.8 17.8 13.6 18.0 13.5 18.0 C13.0 18.0 12.0 18.7 11.0 19.7 C10.4 20.2 10.4 20.2 10.4 20.8 C10.4 21.5 10.4 21.5 9.7 22.2 C9.3 22.6 8.9 23.0 8.7 23.1 C8.3 23.2 7.0 24.5 7.0 24.6 C7.0 24.7 7.0 24.8 6.9 24.8 C6.8 24.9 6.8 25.0 6.8 25.1 C6.8 25.1 6.7 25.3 6.6 25.5 C6.5 25.6 6.4 25.9 6.4 26.1 C6.3 26.5 5.9 26.8 5.4 26.8 C5.3 26.8 5.1 26.8 4.9 26.9 C4.8 27.0 4.7 27.0 4.6 27.0 C4.5 27.0 4.2 27.4 4.2 27.6 C4.2 27.8 4.1 28.0 3.4 29.0 C2.9 29.6 2.9 30.1 3.2 30.4 C3.4 30.6 3.4 30.6 3.4 31.2 C3.4 31.9 3.4 31.9 4.3 32.8 C4.6 33.2 5.0 33.6 5.2 33.9 C5.6 34.6 6.2 35.3 6.8 35.9 C7.2 36.4 7.3 36.7 7.6 37.3 C7.9 38.1 8.1 38.5 8.5 39.0 C8.6 39.2 8.8 39.5 8.9 39.8 C9.4 40.7 9.8 41.1 10.2 41.1 C10.4 41.1 10.5 41.2 10.8 41.5 C11.1 41.8 11.3 42.0 11.5 42.1 C12.0 42.2 12.5 42.6 13.7 43.4 C14.1 43.7 14.2 43.8 14.4 43.7 C14.8 43.6 15.1 43.8 15.6 44.4 C16.5 45.6 17.4 46.4 17.7 46.5 C17.9 46.5 18.0 46.6 18.1 46.7 C18.1 46.7 18.6 47.0 19.2 47.3 C19.8 47.5 20.3 47.8 20.4 47.9 C20.5 48.0 20.7 48.1 20.9 48.1 C21.0 48.1 21.3 48.2 21.5 48.3 C21.8 48.5 22.0 48.5 22.5 48.5 C22.9 48.5 23.1 48.5 23.2 48.6 C23.2 48.6 23.4 48.6 23.6 48.6 C23.8 48.6 24.1 48.6 24.3 48.6 C24.5 48.7 24.7 48.7 24.8 48.8 C25.2 49.2 28.1 49.4 30.5 49.3 C31.7 49.2 32.0 49.3 32.6 49.4 C33.2 49.6 33.9 49.7 35.5 49.8 C35.9 49.8 36.5 49.9 36.7 50.0 C36.9 50.0 37.5 50.1 38.1 50.1 C38.8 50.2 39.4 50.3 39.7 50.4 C40.0 50.5 40.5 50.6 41.0 50.6 C41.4 50.6 41.9 50.7 42.2 50.7 C43.3 50.9 44.8 50.8 45.8 50.5 Z M39.8 49.8 C39.5 49.7 38.9 49.6 38.4 49.6 C37.5 49.5 37.2 49.4 37.0 49.3 C36.8 49.1 36.2 48.9 36.0 49.0 C35.9 49.0 35.8 49.0 35.7 48.9 C35.5 48.8 35.4 48.8 35.3 48.9 C35.0 49.0 34.7 48.8 34.9 48.6 C35.1 48.4 34.5 47.9 34.1 47.9 C33.9 47.9 33.8 47.8 33.7 47.8 C33.6 47.7 33.5 47.6 33.3 47.6 C33.2 47.6 33.0 47.6 32.9 47.5 C32.8 47.5 32.4 47.4 32.0 47.4 C31.0 47.4 30.4 46.9 31.4 46.9 C32.0 46.9 31.9 46.7 31.3 46.5 C31.0 46.5 31.0 46.5 30.9 46.6 C30.8 46.6 30.7 46.7 30.6 46.7 C30.5 46.7 30.4 46.7 30.3 46.8 C30.1 47.1 29.1 46.8 29.3 46.5 C29.4 46.4 29.2 46.2 29.1 46.3 C29.0 46.4 29.0 46.4 28.9 46.3 C28.8 46.3 28.7 46.3 28.6 46.3 C28.5 46.3 28.4 46.3 28.3 46.2 C28.2 46.1 28.0 46.1 27.8 46.3 C27.7 46.4 27.6 46.4 27.6 46.3 C27.5 46.3 27.4 46.3 27.3 46.5 C27.2 46.6 27.1 46.8 26.9 46.9 C26.7 47.2 26.7 47.2 27.0 47.4 C27.3 47.6 27.3 47.7 27.0 47.8 C26.8 47.9 26.8 47.9 27.1 48.2 C27.5 48.6 27.4 48.7 26.6 48.6 C25.9 48.6 25.8 48.5 26.0 48.3 C26.2 48.1 26.2 48.0 25.8 47.8 C25.6 47.7 25.6 47.6 25.6 47.4 C25.5 47.0 25.5 47.0 25.1 47.2 C24.9 47.4 24.9 47.4 25.1 47.6 C25.5 47.7 25.5 47.8 25.4 48.0 C25.3 48.1 25.1 48.1 24.8 47.9 C24.7 47.8 24.5 47.7 24.5 47.7 C24.3 47.7 24.0 47.4 24.1 47.3 C24.2 47.2 23.9 46.8 23.7 46.9 C23.7 47.0 23.7 47.0 23.7 47.1 C23.8 47.1 23.8 47.2 23.8 47.3 C23.8 47.4 23.9 47.6 24.1 47.7 C24.4 48.0 24.4 48.2 24.0 48.1 C23.8 48.1 23.6 48.1 23.5 48.1 C23.3 48.1 23.2 48.0 23.2 48.0 C23.1 48.0 22.9 48.0 22.6 48.0 C21.9 48.0 21.8 47.9 22.1 47.6 C22.3 47.5 22.3 47.5 21.9 47.2 C21.8 47.1 21.6 47.1 21.6 47.1 C21.5 47.2 21.3 47.0 21.4 46.8 C21.5 46.8 21.5 46.8 21.6 46.8 C21.8 47.0 21.8 46.8 21.6 46.6 C21.5 46.3 21.4 46.1 21.6 45.9 C21.7 45.8 21.8 45.7 21.8 45.5 C21.8 45.1 21.9 45.0 22.2 45.0 C22.5 45.1 22.7 44.7 22.5 44.5 C22.4 44.5 22.3 44.4 22.3 44.3 C22.3 44.2 22.2 44.1 22.1 43.9 C22.0 43.8 22.0 43.7 22.0 43.6 C22.1 43.6 22.0 43.5 21.8 43.4 C21.5 43.1 21.2 43.2 21.2 43.4 C21.2 43.7 20.9 43.9 20.7 43.7 C20.4 43.5 20.3 43.5 20.2 43.7 C20.2 43.8 20.0 43.9 19.9 44.0 C19.7 44.1 19.6 44.2 19.7 44.3 C19.9 44.5 19.6 44.8 19.5 44.6 C19.4 44.6 19.3 44.6 19.1 44.7 C18.9 44.9 18.9 44.9 19.3 45.3 C19.7 45.6 19.7 45.6 19.6 46.0 C19.6 46.4 19.7 46.7 19.8 46.7 C19.9 46.7 20.2 46.8 20.4 46.9 C20.7 47.0 20.9 47.1 21.0 47.1 C21.2 47.1 21.4 47.4 21.3 47.5 C21.2 47.6 20.6 47.6 20.4 47.4 C20.3 47.3 19.8 47.0 19.2 46.7 C18.7 46.5 18.1 46.2 18.0 46.1 C17.9 46.0 17.8 45.9 17.7 45.9 C17.5 45.9 17.1 45.5 16.5 44.9 C16.0 44.2 15.0 43.2 14.9 43.2 C14.7 43.2 14.3 42.8 14.4 42.7 C14.4 42.5 14.1 42.2 13.9 42.2 C13.1 42.1 12.8 40.2 13.4 39.6 C13.7 39.3 13.6 39.0 13.2 39.0 C12.9 39.0 12.9 39.2 13.1 39.4 C13.3 39.6 13.1 39.8 12.8 39.6 C12.6 39.5 12.5 39.6 12.7 39.8 C13.0 40.1 12.8 40.5 12.5 40.4 C12.0 40.1 12.0 40.1 11.8 40.3 C11.7 40.4 11.6 40.5 11.5 40.5 C11.5 40.5 11.4 40.6 11.3 40.7 C11.1 40.9 11.1 40.9 10.7 40.6 C10.5 40.4 10.4 40.3 10.3 40.3 C10.1 40.4 9.9 40.1 9.6 39.5 C9.5 39.3 9.3 39.0 9.2 38.9 C8.8 38.5 8.6 38.0 8.3 37.3 C8.0 36.6 7.9 36.3 7.1 35.4 C6.4 34.5 6.2 34.4 5.8 33.8 C5.7 33.5 5.5 33.3 5.4 33.2 C5.3 33.1 5.3 33.1 5.4 33.0 C5.4 32.9 5.5 32.9 5.6 33.0 C5.7 33.1 5.9 33.2 6.0 33.2 C6.4 33.4 7.0 33.7 7.7 34.2 C7.9 34.4 8.3 34.6 8.5 34.7 C8.8 34.9 8.9 35.0 8.9 35.2 C8.9 35.3 9.1 35.5 9.3 35.7 C9.6 36.0 9.7 36.1 9.6 36.2 C9.4 36.4 9.6 36.7 10.0 36.9 C10.4 37.1 10.6 37.3 10.6 37.6 C10.6 38.0 11.0 38.1 11.4 37.8 C11.6 37.5 11.8 37.5 11.9 37.5 C12.1 37.5 12.4 37.4 12.7 37.3 C13.0 37.2 13.2 37.2 13.4 37.3 C13.5 37.3 13.9 37.4 14.2 37.5 C14.9 37.6 15.1 37.7 14.9 37.9 C14.9 37.9 14.9 38.0 14.9 38.1 C14.9 38.2 14.8 38.3 14.8 38.3 C14.5 38.5 14.7 38.6 15.6 38.6 C16.6 38.6 16.7 38.5 16.6 38.3 C16.4 38.2 16.7 37.9 16.9 38.1 C17.0 38.2 17.0 38.3 16.9 38.3 C16.8 38.5 16.9 38.6 17.7 38.6 C18.4 38.6 18.5 38.6 18.6 38.8 C18.8 39.0 19.3 38.9 19.6 38.7 C19.7 38.7 19.8 38.7 19.9 38.8 C20.1 38.9 20.4 38.9 20.8 38.9 C21.3 38.9 21.5 38.9 21.7 39.0 C22.1 39.2 22.7 39.7 22.7 39.8 C22.5 40.1 23.7 40.2 23.9 39.9 C24.0 39.9 24.1 39.8 24.2 39.8 C24.4 39.9 24.5 39.8 24.4 39.7 C24.2 39.6 24.4 39.4 24.7 39.4 C25.2 39.3 25.4 39.6 25.0 40.0 C24.9 40.1 24.9 40.1 25.1 40.2 C25.2 40.4 25.4 40.3 25.2 40.2 C25.2 40.1 25.2 40.0 25.3 39.9 C25.6 39.7 25.9 40.0 25.7 40.2 C25.6 40.3 25.5 40.4 25.6 40.4 C25.6 40.4 25.8 40.4 26.0 40.4 C26.4 40.4 26.6 40.5 26.8 40.6 C27.0 40.7 27.3 40.9 27.5 41.0 C27.7 41.0 28.1 41.1 28.3 41.2 C28.5 41.3 28.8 41.4 29.0 41.5 C29.1 41.5 29.4 41.6 29.5 41.7 C29.7 41.7 29.9 41.8 30.0 41.8 C30.1 41.8 30.3 41.9 30.4 42.0 C30.5 42.1 30.7 42.1 30.8 42.2 C31.5 42.2 31.9 42.3 32.0 42.4 C32.1 42.5 32.2 42.5 32.3 42.4 C32.6 42.3 33.3 42.3 33.7 42.5 C34.0 42.8 34.0 42.8 35.5 42.8 C36.9 42.8 37.2 42.8 38.1 43.0 C39.1 43.2 39.2 43.2 39.9 43.1 C41.4 43.0 41.7 42.9 43.0 43.1 C45.4 43.3 46.4 43.3 48.5 42.7 C49.2 42.5 49.5 42.5 50.3 42.4 C51.5 42.4 51.6 42.4 51.4 42.2 C51.1 41.9 51.9 41.6 52.6 41.7 C52.9 41.8 53.0 41.7 53.2 41.4 C53.2 41.2 53.4 41.2 53.9 41.1 C54.7 40.9 54.9 41.0 54.7 41.2 C54.6 41.3 54.6 41.4 54.6 41.4 C54.8 41.5 55.0 41.2 55.0 41.1 C54.9 40.9 55.3 40.7 55.6 40.8 C56.3 41.0 56.4 41.0 56.4 40.7 C56.4 40.3 56.3 40.2 56.1 40.4 C55.9 40.6 55.6 40.5 55.7 40.2 C55.7 40.1 55.7 40.0 55.6 39.9 C55.5 39.8 55.6 39.7 56.1 39.2 C56.4 38.9 56.7 38.6 56.7 38.5 C56.7 38.4 57.1 38.1 57.3 38.1 C57.5 38.1 57.8 37.9 57.7 37.7 C57.7 37.6 57.9 37.4 58.2 37.4 C58.3 37.3 58.7 37.1 59.0 36.8 C59.5 36.4 59.5 36.4 59.6 36.5 C59.8 36.6 59.7 36.6 59.5 36.9 C59.3 37.1 59.2 37.4 59.1 37.6 C59.0 37.8 58.9 38.0 58.8 38.1 C58.8 38.2 58.8 38.2 58.8 38.3 C58.9 38.5 58.3 39.2 58.0 39.2 C57.7 39.2 57.5 39.4 57.6 39.6 C57.6 39.8 57.6 39.9 57.5 40.0 C57.4 40.1 57.4 40.2 57.5 40.5 C57.7 40.8 57.7 41.2 57.4 41.5 C57.4 41.5 57.3 41.7 57.3 41.9 C57.3 42.2 56.8 42.8 56.6 42.8 C56.5 42.7 56.4 42.8 56.2 43.1 C55.8 43.5 55.6 43.4 55.7 42.7 C55.8 42.0 55.4 41.7 55.1 42.2 C54.9 42.4 54.7 42.5 54.5 42.5 C54.0 42.6 53.7 43.1 53.8 43.5 C53.9 43.7 53.7 43.8 53.5 43.7 C53.4 43.7 53.4 43.7 53.3 43.7 C53.1 43.9 52.9 43.8 52.7 43.6 C52.4 43.4 52.4 43.4 52.2 43.7 C52.0 43.8 51.8 43.9 51.6 44.0 C51.5 44.0 51.3 44.1 51.2 44.2 C50.9 44.4 50.9 44.4 50.7 44.2 C50.3 43.8 50.2 43.8 49.8 44.3 C49.6 44.5 49.3 44.7 49.3 44.7 C49.2 44.7 49.1 44.8 49.1 44.9 C49.0 45.0 48.9 45.1 48.8 45.2 C48.7 45.2 48.6 45.3 48.5 45.3 C48.5 45.4 48.2 45.4 48.1 45.3 C47.9 45.0 46.9 45.1 46.5 45.5 C46.3 45.7 46.1 45.9 45.9 46.0 C45.7 46.1 45.7 46.2 45.7 46.3 C45.7 46.4 45.6 46.6 45.5 46.7 C45.4 46.8 45.3 46.9 45.3 46.9 C45.4 47.1 45.0 47.4 44.9 47.3 C44.8 47.2 44.7 47.2 44.6 47.3 C44.5 47.3 44.5 47.4 44.4 47.3 C44.2 47.2 43.7 47.2 43.6 47.4 C43.5 47.5 43.3 47.5 43.1 47.3 C42.8 47.1 42.6 47.2 42.8 47.4 C43.1 47.7 42.7 48.0 42.3 47.7 C42.2 47.7 42.0 47.6 41.9 47.6 C41.8 47.6 41.6 47.5 41.4 47.3 C41.2 47.1 41.0 47.0 40.9 47.0 C40.9 47.0 40.6 46.9 40.5 46.8 C40.1 46.6 40.1 46.6 40.0 46.8 C39.9 47.1 40.2 47.5 40.6 47.6 C41.1 47.8 41.1 47.8 41.1 48.0 C41.1 48.2 41.1 48.2 41.3 48.2 C41.7 48.2 42.0 48.7 41.8 48.9 C41.7 49.0 41.6 49.0 41.5 49.0 C41.3 48.9 41.1 49.3 41.3 49.6 C41.4 49.6 41.3 49.7 41.2 49.8 C40.9 50.1 40.6 50.1 39.8 49.8 Z M20.3 46.1 C20.1 46.0 20.1 46.0 20.3 45.8 C20.5 45.6 20.4 45.4 20.2 45.4 C20.1 45.4 20.0 45.3 20.0 45.3 C19.8 45.1 20.1 44.8 20.3 44.9 C20.5 45.0 20.6 45.0 20.7 44.9 C20.9 44.7 21.3 45.2 21.1 45.4 C21.0 45.5 21.0 45.6 21.0 45.7 C21.0 45.9 20.9 46.0 20.8 46.0 C20.8 46.1 20.6 46.1 20.6 46.2 C20.4 46.2 20.4 46.2 20.3 46.1 Z M44.4 42.7 C44.3 42.5 41.6 42.4 40.7 42.5 C39.6 42.6 39.5 42.6 39.5 42.0 C39.5 41.5 39.6 41.5 40.4 41.5 C40.8 41.5 41.1 41.4 41.2 41.4 C41.2 41.3 40.3 40.9 40.1 40.9 C39.8 40.9 39.7 40.2 40.0 40.0 C40.1 39.9 40.2 39.7 40.2 39.7 C40.2 39.4 40.4 39.2 40.5 39.3 C40.6 39.3 40.7 39.3 40.7 39.3 C40.8 39.2 41.0 39.2 41.3 39.3 C41.6 39.4 42.1 39.5 42.5 39.5 C43.5 39.7 43.7 40.0 42.9 40.1 C42.5 40.2 42.3 40.3 42.3 40.4 C42.4 40.5 42.0 40.8 41.8 40.8 C41.7 40.7 41.6 40.7 41.6 40.9 C41.6 41.0 41.5 41.1 41.5 41.2 C41.4 41.2 41.4 41.3 41.4 41.3 C41.4 41.4 41.6 41.3 41.7 41.2 C41.8 41.0 42.0 40.9 42.0 41.0 C42.0 41.0 42.1 40.9 42.1 40.9 C42.2 40.8 42.4 40.8 43.2 40.8 C44.2 40.8 44.3 40.7 44.0 40.5 C43.9 40.3 44.0 40.2 44.6 40.1 C44.9 40.1 45.3 40.0 45.6 39.9 C46.0 39.7 46.2 39.7 46.2 39.8 C46.3 39.9 45.9 40.3 45.2 40.5 C44.6 40.7 44.6 40.8 45.0 40.8 C45.5 40.9 45.5 40.9 45.5 41.7 C45.5 42.0 45.6 42.3 45.6 42.4 C45.8 42.6 45.5 42.7 45.0 42.7 C44.7 42.7 44.4 42.7 44.4 42.7 Z M37.9 42.4 C37.3 42.3 36.8 42.2 35.6 42.2 C34.0 42.2 34.0 42.2 33.7 42.0 C33.6 41.9 33.5 41.8 33.4 41.8 C33.4 41.8 33.3 41.7 33.2 41.5 C32.8 41.0 33.4 38.9 33.8 39.3 C34.1 39.5 35.9 39.4 36.2 39.1 C36.6 38.8 37.2 38.8 37.3 39.0 C37.5 39.1 37.7 39.1 37.8 39.0 C38.0 38.9 38.3 39.0 38.6 39.3 C38.9 39.5 38.7 40.3 38.4 40.7 C38.1 41.0 38.1 40.9 37.9 40.5 C37.7 39.9 37.4 39.9 37.5 40.5 C37.6 40.8 37.4 41.3 37.1 41.4 C36.7 41.5 37.0 41.6 37.7 41.6 C38.3 41.6 38.6 41.7 38.7 41.7 C38.8 41.9 38.8 42.6 38.6 42.6 C38.6 42.6 38.2 42.5 37.9 42.4 Z M31.7 41.5 C31.7 41.4 31.6 41.4 31.5 41.4 C31.4 41.3 31.2 41.2 31.1 41.1 C30.9 41.0 30.9 41.0 30.7 41.1 C30.5 41.3 30.4 41.3 30.0 41.0 C29.7 40.8 29.7 40.8 29.6 41.0 C29.4 41.1 29.4 41.1 28.1 40.6 C27.9 40.5 27.5 40.4 27.3 40.4 C26.3 40.0 26.5 39.6 27.8 39.6 C28.5 39.6 28.9 39.5 28.6 39.4 C28.3 39.3 28.2 39.2 28.2 39.0 C28.1 38.5 28.6 38.4 29.2 38.7 C29.4 38.8 29.4 38.8 29.6 38.6 C29.8 38.4 29.8 38.4 29.7 38.4 C29.6 38.3 29.5 38.3 29.4 38.3 C29.3 38.2 29.2 38.2 29.2 38.2 C29.2 38.2 29.1 38.2 29.0 38.1 C28.9 38.0 29.1 37.8 29.3 37.9 C29.3 37.9 29.5 38.0 29.6 37.9 C29.8 37.9 31.3 38.3 31.8 38.5 C32.0 38.6 32.1 38.6 32.2 38.6 C32.5 38.6 32.6 38.9 32.5 39.1 C32.3 39.2 32.3 39.4 32.3 39.7 C32.3 39.9 32.2 40.1 32.1 40.2 C32.0 40.3 32.0 40.4 32.0 40.6 C32.2 41.1 31.9 41.8 31.7 41.5 Z M25.5 39.3 C25.0 38.7 24.6 38.7 24.3 39.0 C23.9 39.3 23.7 39.2 23.6 38.6 C23.4 38.0 23.6 37.9 25.0 37.8 C25.6 37.8 26.2 37.8 26.3 37.8 C26.3 37.9 26.5 37.9 26.5 37.9 C27.1 37.8 27.5 38.6 27.0 39.0 C26.9 39.1 26.8 39.2 26.9 39.2 C27.0 39.4 26.8 39.5 26.6 39.5 C26.6 39.5 26.4 39.5 26.3 39.6 C26.1 39.8 26.1 39.8 25.5 39.3 Z M24.5 28.5 C24.1 28.3 24.1 28.2 24.3 27.9 C24.6 27.7 24.6 27.7 24.7 27.9 C24.9 28.0 25.0 28.0 25.7 28.0 C27.0 28.0 27.1 28.4 25.9 28.5 C25.6 28.5 25.2 28.5 25.0 28.5 C24.9 28.6 24.6 28.5 24.5 28.5 Z M24.9 27.1 C24.2 26.3 24.3 25.7 25.1 24.9 C26.0 24.0 26.3 23.9 27.1 24.7 C27.5 25.1 27.5 25.1 27.7 25.0 C28.1 24.9 28.4 24.9 28.6 25.0 C28.9 25.2 29.4 25.3 30.2 25.4 C30.4 25.4 30.6 25.5 30.6 25.5 C30.6 25.5 30.7 25.4 30.8 25.3 C31.0 25.1 31.0 25.1 31.5 25.6 L32.0 26.0 L31.5 26.5 C31.1 27.0 31.1 27.0 30.9 26.8 C30.7 26.6 30.6 26.6 30.6 27.0 C30.6 27.4 30.3 27.6 29.6 27.3 C29.4 27.3 29.0 27.3 28.0 27.4 C25.9 27.6 25.2 27.5 24.9 27.1 Z M32.6 26.7 C32.0 26.1 32.1 26.0 33.1 26.0 C33.9 26.1 33.9 26.1 34.2 25.7 C34.5 25.4 34.5 25.4 35.1 25.4 C35.7 25.4 35.7 25.4 36.3 24.8 C36.8 24.3 36.8 24.3 37.6 24.3 C38.7 24.4 38.7 24.4 38.7 25.3 C38.6 26.0 38.6 26.0 38.1 26.3 C37.9 26.4 37.6 26.5 37.5 26.5 C37.4 26.5 37.3 26.6 37.2 26.6 C36.7 27.0 34.1 27.2 33.7 26.9 C33.6 26.7 33.6 26.8 33.4 26.9 C33.1 27.2 33.0 27.1 32.6 26.7 Z M43.7 27.0 C43.3 26.7 43.3 26.0 43.8 25.6 C44.0 25.4 44.3 25.6 44.6 25.9 C44.8 26.2 44.8 26.2 44.9 26.0 C45.1 25.8 45.3 25.8 45.5 26.0 C45.7 26.2 45.6 26.5 45.3 26.6 C45.2 26.7 45.0 26.8 44.9 26.9 C44.6 27.1 44.0 27.2 43.7 27.0 Z M37.1 19.0 C36.3 19.0 36.2 18.9 36.7 18.4 C37.1 18.0 37.4 17.9 37.7 18.3 C38.0 18.6 37.9 19.1 37.7 19.1 C37.6 19.0 37.4 19.0 37.1 19.0 Z"/></symbol>
   <symbol id="i-about" viewBox="0 0 64 64"><path fill="currentColor" fill-rule="evenodd" d="M20.66 51.21 C20.83 51.16 21.33 51.10 21.77 51.08 C22.50 51.03 22.99 50.96 24.17 50.70 C24.37 50.65 24.75 50.58 25.01 50.53 C25.27 50.49 25.76 50.36 26.09 50.26 C26.43 50.16 26.93 50.02 27.21 49.95 C28.07 49.74 28.52 49.59 29.64 49.15 C29.84 49.07 30.13 48.96 30.28 48.91 C30.43 48.86 30.64 48.78 30.75 48.72 C31.10 48.55 31.57 48.34 31.62 48.34 C31.69 48.34 33.94 47.22 34.33 46.99 C34.51 46.88 34.73 46.76 34.80 46.72 C34.88 46.69 35.15 46.52 35.41 46.35 C35.67 46.18 35.98 46.00 36.09 45.94 C36.20 45.89 36.34 45.80 36.38 45.74 C36.43 45.68 36.50 45.64 36.53 45.64 C36.56 45.64 36.76 45.52 36.98 45.37 C37.19 45.23 37.55 44.99 37.77 44.85 C38.20 44.57 39.04 43.99 39.22 43.84 C42.88 40.95 44.03 39.95 45.27 38.59 C45.48 38.36 45.90 37.92 46.20 37.60 C47.46 36.29 49.40 33.93 49.42 33.70 C49.42 33.68 49.53 33.52 49.66 33.35 C49.98 32.91 51.00 31.39 51.09 31.19 C51.14 31.10 51.25 30.90 51.34 30.75 C51.43 30.60 51.53 30.42 51.57 30.34 C51.73 30.00 51.98 29.50 52.16 29.16 C52.28 28.96 52.45 28.58 52.55 28.32 C52.65 28.06 52.76 27.79 52.79 27.71 C53.52 26.10 54.07 23.73 54.07 22.16 C54.08 21.03 53.84 19.50 53.51 18.61 C53.42 18.36 53.19 17.88 53.00 17.55 C52.81 17.22 52.66 16.88 52.66 16.79 C52.66 16.70 52.71 16.47 52.77 16.27 C52.88 15.88 52.87 15.17 52.73 14.57 C52.53 13.67 51.78 12.84 50.70 12.31 C50.20 12.07 49.71 11.88 49.55 11.88 C49.47 11.88 49.27 11.82 49.09 11.74 C48.79 11.60 48.71 11.59 47.56 11.63 C46.73 11.66 46.23 11.71 45.98 11.78 C45.77 11.85 45.39 11.92 45.13 11.95 C44.52 12.02 43.29 12.25 43.05 12.35 C42.95 12.39 42.79 12.42 42.71 12.42 C42.56 12.42 41.85 12.61 41.42 12.77 C41.20 12.85 40.54 13.05 40.00 13.20 C39.81 13.26 39.57 13.35 39.45 13.40 C39.33 13.46 39.20 13.50 39.16 13.50 C39.11 13.50 38.98 13.55 38.86 13.60 C38.75 13.65 38.53 13.74 38.38 13.80 C38.23 13.85 37.95 13.96 37.76 14.04 C37.56 14.11 37.24 14.24 37.05 14.32 C36.85 14.40 36.58 14.50 36.44 14.55 C36.30 14.61 35.99 14.74 35.73 14.86 C35.48 14.97 35.14 15.13 34.97 15.20 C34.80 15.28 34.27 15.53 33.79 15.76 C33.31 15.99 32.75 16.25 32.56 16.34 C32.13 16.53 31.88 16.77 31.66 17.23 C31.50 17.58 31.22 17.83 30.75 18.07 C30.64 18.12 30.44 18.24 30.30 18.32 C29.56 18.76 29.20 18.96 28.57 19.29 C28.19 19.48 27.85 19.65 27.81 19.65 C27.76 19.65 27.61 19.54 27.47 19.41 C27.32 19.28 27.14 19.17 27.07 19.17 C26.64 19.17 26.20 19.69 26.19 20.18 C26.19 20.35 26.15 20.54 26.11 20.59 C26.01 20.71 25.55 21.06 25.49 21.06 C25.42 21.06 24.39 21.76 23.46 22.44 C22.89 22.85 22.91 22.84 22.65 23.04 C22.54 23.13 22.36 23.25 22.26 23.31 C22.06 23.44 20.64 24.57 19.75 25.32 C18.63 26.25 15.51 29.44 14.83 30.35 C14.47 30.82 14.05 31.36 13.91 31.53 C13.85 31.59 13.68 31.83 13.52 32.04 C13.36 32.26 13.06 32.66 12.87 32.92 C12.67 33.18 12.42 33.54 12.31 33.71 C12.21 33.89 11.95 34.28 11.75 34.58 C11.55 34.89 11.11 35.69 10.76 36.37 C10.41 37.05 10.10 37.65 10.07 37.72 C10.03 37.79 9.94 38.01 9.86 38.21 C9.78 38.42 9.65 38.69 9.58 38.83 C9.51 38.97 9.45 39.13 9.45 39.19 C9.45 39.25 9.39 39.44 9.32 39.62 C9.04 40.30 8.69 41.57 8.63 42.09 C8.60 42.39 8.54 42.72 8.51 42.83 C8.40 43.14 8.42 44.68 8.54 45.00 C8.59 45.14 8.64 45.40 8.64 45.56 C8.64 45.72 8.70 46.01 8.78 46.20 C9.23 47.30 9.33 47.47 9.95 48.16 C10.32 48.58 11.25 49.37 11.91 49.82 C12.05 49.92 12.36 50.15 12.61 50.33 C13.36 50.90 13.54 50.98 14.00 50.97 C14.88 50.96 17.12 51.11 17.42 51.20 C17.84 51.34 20.23 51.34 20.66 51.21 Z M16.84 49.89 C16.51 49.86 16.11 49.80 15.97 49.76 C15.82 49.72 15.56 49.69 15.39 49.69 C15.06 49.69 14.28 49.49 13.74 49.27 C13.20 49.05 12.80 48.87 12.69 48.81 C12.64 48.77 12.48 48.69 12.35 48.61 C11.74 48.27 10.53 47.03 10.53 46.73 C10.53 46.68 10.47 46.53 10.40 46.39 C9.89 45.40 9.81 43.38 10.22 41.53 C10.36 40.91 10.62 40.13 10.86 39.56 C10.97 39.32 11.14 38.92 11.24 38.68 C11.34 38.44 11.47 38.20 11.52 38.14 C11.57 38.08 11.61 37.99 11.61 37.93 C11.61 37.82 11.71 37.64 12.49 36.22 C12.59 36.03 12.83 35.65 13.02 35.38 C13.43 34.79 13.71 34.38 13.80 34.22 C14.08 33.77 15.31 32.20 15.77 31.69 C16.18 31.24 16.87 30.46 17.25 30.01 C18.00 29.12 18.99 28.11 19.95 27.26 C20.32 26.92 20.99 26.33 21.43 25.93 C22.68 24.81 23.98 23.79 24.92 23.19 C24.98 23.15 25.45 22.84 25.96 22.50 C26.48 22.15 26.95 21.87 27.01 21.87 C27.08 21.87 27.24 22.04 27.39 22.26 L27.65 22.65 L28.10 22.67 C28.35 22.68 28.61 22.66 28.69 22.62 C28.88 22.52 28.96 22.14 28.96 21.42 C28.96 20.67 29.02 20.59 29.88 20.00 C31.15 19.14 31.50 19.00 32.01 19.20 C32.25 19.30 32.43 19.31 33.18 19.27 C34.23 19.21 34.50 19.13 34.50 18.85 C34.50 18.73 34.43 18.59 34.31 18.48 C34.14 18.31 34.07 18.30 33.63 18.30 C32.94 18.30 32.98 18.09 33.76 17.69 C34.00 17.57 34.35 17.39 34.53 17.28 C34.72 17.18 35.04 17.02 35.24 16.92 C35.44 16.82 35.72 16.68 35.86 16.60 C36.00 16.53 36.16 16.47 36.22 16.47 C36.28 16.47 36.41 16.43 36.51 16.37 C36.61 16.32 36.82 16.23 36.98 16.17 C37.69 15.92 37.85 15.86 37.97 15.80 C38.05 15.76 38.24 15.69 38.40 15.63 C39.11 15.38 39.27 15.31 39.47 15.22 C39.59 15.17 39.72 15.12 39.76 15.12 C39.80 15.12 39.96 15.07 40.12 15.00 C40.51 14.82 40.80 14.72 41.33 14.57 C41.58 14.50 41.99 14.39 42.24 14.32 C42.50 14.25 42.84 14.15 43.00 14.11 C43.17 14.07 43.53 13.97 43.80 13.90 C44.06 13.83 44.36 13.77 44.45 13.77 C44.55 13.77 44.74 13.73 44.88 13.68 C45.51 13.43 48.08 13.30 48.93 13.46 C49.89 13.64 50.85 14.24 51.11 14.82 C51.25 15.12 51.28 15.63 51.17 15.91 C51.13 16.02 51.07 16.31 51.04 16.57 C51.01 16.83 50.95 17.21 50.90 17.42 C50.84 17.70 50.83 17.98 50.88 18.53 C50.93 19.21 50.95 19.28 51.08 19.29 C51.19 19.31 51.28 19.23 51.45 18.96 C51.84 18.34 51.91 18.34 52.15 19.05 C52.40 19.80 52.48 20.47 52.48 21.81 C52.47 23.03 52.40 23.82 52.24 24.34 C52.18 24.52 52.10 24.81 52.05 24.98 C51.84 25.77 51.76 26.04 51.67 26.16 C51.62 26.23 51.58 26.35 51.58 26.42 C51.58 26.49 51.54 26.63 51.48 26.72 C51.43 26.82 51.31 27.09 51.21 27.31 C50.91 27.97 50.17 29.45 49.99 29.74 C49.90 29.89 49.78 30.10 49.72 30.21 C49.66 30.32 49.53 30.55 49.42 30.72 C49.31 30.88 49.19 31.08 49.16 31.16 C49.12 31.23 49.05 31.34 48.99 31.39 C48.93 31.44 48.88 31.50 48.88 31.53 C48.88 31.56 48.79 31.72 48.67 31.88 C48.56 32.04 48.42 32.24 48.35 32.34 C48.07 32.76 47.12 34.01 46.94 34.19 C46.83 34.31 46.55 34.64 46.31 34.94 C45.84 35.54 45.65 35.74 44.62 36.82 C44.03 37.45 43.18 38.28 42.40 39.02 C42.22 39.19 41.81 39.53 41.38 39.87 C41.25 39.98 40.95 40.25 40.70 40.48 C40.45 40.71 40.10 40.99 39.92 41.12 C39.74 41.24 39.30 41.58 38.94 41.87 C38.59 42.16 37.92 42.64 37.46 42.95 C37.00 43.26 36.51 43.60 36.36 43.71 C36.06 43.94 35.99 43.99 34.79 44.69 C34.32 44.97 33.84 45.26 33.72 45.33 C33.28 45.60 32.27 46.18 32.24 46.18 C32.22 46.18 32.03 46.30 31.82 46.45 C31.60 46.60 31.40 46.72 31.37 46.72 C31.34 46.72 31.12 46.81 30.88 46.92 C30.64 47.03 30.25 47.21 30.01 47.32 C29.77 47.44 29.55 47.53 29.52 47.53 C29.49 47.53 29.39 47.57 29.29 47.62 C29.19 47.67 29.00 47.75 28.86 47.80 C28.72 47.84 28.53 47.92 28.43 47.97 C28.33 48.02 28.21 48.07 28.16 48.07 C28.11 48.07 27.99 48.11 27.89 48.17 C27.70 48.28 27.50 48.35 26.57 48.66 C24.94 49.21 23.14 49.61 21.33 49.83 C20.56 49.92 17.69 49.96 16.84 49.89 Z M29.87 41.48 C30.10 41.43 30.38 41.37 30.51 41.35 C30.64 41.32 30.86 41.24 30.99 41.18 C31.12 41.11 31.42 40.96 31.66 40.84 C32.71 40.34 33.56 39.62 34.13 38.75 C34.53 38.14 35.11 36.81 35.11 36.51 C35.11 36.38 35.15 36.14 35.21 35.98 C35.33 35.64 35.34 34.57 35.23 34.23 C35.19 34.10 35.13 33.82 35.10 33.62 C34.98 32.70 34.35 31.44 33.59 30.58 C33.16 30.10 32.17 29.36 31.53 29.05 C30.75 28.67 29.69 28.42 28.73 28.37 C28.19 28.34 27.32 28.49 26.60 28.73 C26.43 28.79 26.20 28.86 26.09 28.89 C25.98 28.92 25.75 29.03 25.59 29.12 C25.42 29.22 25.19 29.35 25.08 29.41 C24.84 29.54 24.01 30.19 23.76 30.44 C23.59 30.62 23.06 31.30 22.91 31.56 C22.54 32.16 22.14 33.14 22.14 33.43 C22.14 33.55 22.09 33.78 22.04 33.92 C21.90 34.30 21.91 35.75 22.05 36.25 C22.35 37.35 22.71 38.17 23.11 38.69 C23.82 39.63 24.69 40.42 25.45 40.81 C26.92 41.56 28.48 41.80 29.87 41.48 Z"/></symbol>
 </svg>
 
@@ -475,6 +476,7 @@ h2.year { font-size: 13px; font-weight: 700; letter-spacing: .3em; color: var(--
       <figure><span class="gtile big"><svg class="ic" viewBox="0 0 64 64"><use href="library.svg#i-oven-fish"/></svg></span><figcaption>oven-fish</figcaption></figure>
       <figure><span class="gtile big"><svg class="ic" viewBox="0 0 64 64"><use href="library.svg#i-whittaker"/></svg></span><figcaption>whittaker</figcaption></figure>
       <figure><span class="gtile big"><svg class="ic" viewBox="0 0 64 64"><use href="library.svg#i-keane"/></svg></span><figcaption>big-eyed child</figcaption></figure>
+      <figure><span class="gtile big"><svg class="ic" viewBox="0 0 64 64"><use href="library.svg#i-mouth"/></svg></span><figcaption>mouth</figcaption></figure>
     </div>
     <p><strong>One post, many cuts.</strong> A post is written once as a list of parts: text, image or clip. The page shows it two ways: read, as an essay with the clips set into it, and swipe, panel by panel for a phone.</p>
     <p><strong>Two languages, one stream.</strong> Every piece appears in the language it was written in. A switch shows the other language, translated automatically, and the translated page always says so and links back to the original.</p>
@@ -576,7 +578,7 @@ h2.year { font-size: 13px; font-weight: 700; letter-spacing: .3em; color: var(--
       ]
     },
     {
-      id: 'talent', glyph: 'wand', lang: 'fr', kind: 'essay', numbered: false,
+      id: 'talent', glyph: 'mouth', lang: 'fr', kind: 'essay', numbered: false,
       date: '2026-07-14',
       title: 'La France a un incroyable talent, une fois régularisé',
       dek: 'À travers <em>Une vie en France</em>, série de portraits diffusée par France Télévisions le 14 juillet, se rejoue une vieille obsession française : décider quels talents méritent d’être reconnus, accueillis ou célébrés. En revenant sur <em>Exemplaires</em>, un film réalisé cinq ans plus tôt, je comprends que mes deux œuvres racontent la même histoire, de part et d’autre du guichet.',
